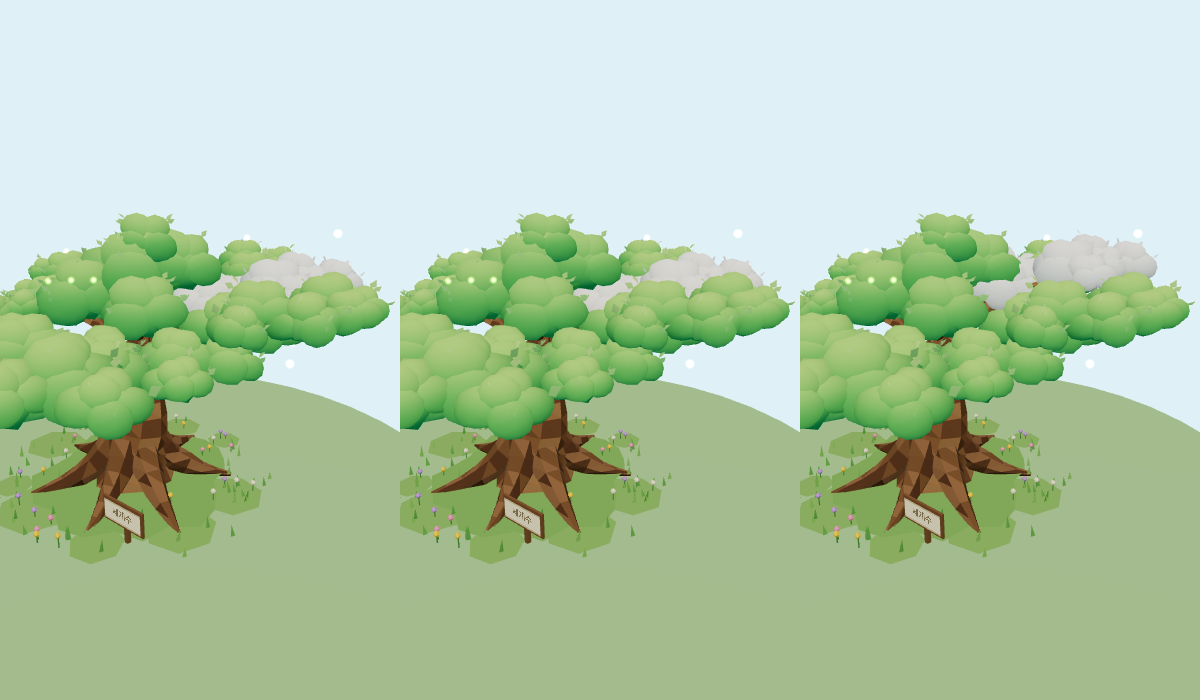
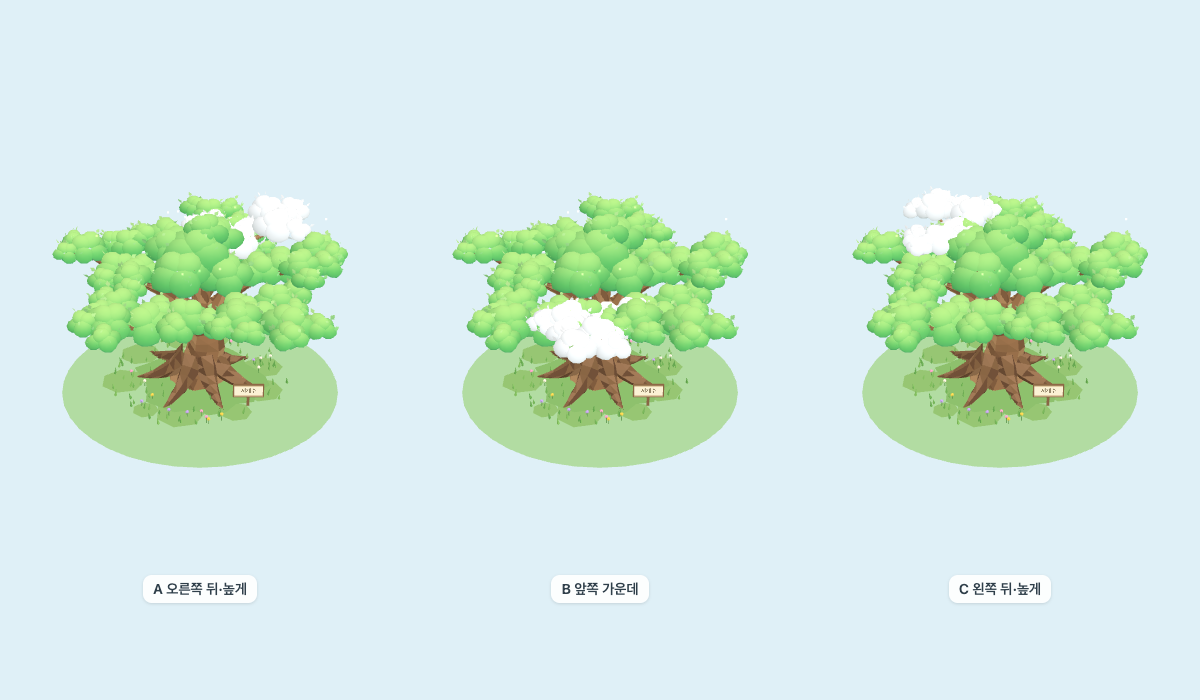
chore(sims): snow limb placement comparison

diff --git a/sims/snow-limb-compare.html b/sims/snow-limb-compare.html
@@ -4,12 +4,13 @@
 <title>snow limb compare</title>
 <style>
   html,body{margin:0;height:100%;background:#dff0f7;font-family:-apple-system,BlinkMacSystemFont,"Apple SD Gothic Neo",sans-serif;color:#2f3f4a;overflow:hidden}
+  html{overflow:hidden}
   canvas{display:block;position:absolute;left:0;top:0}
-  #labels{position:absolute;inset:0;display:flex;pointer-events:none}
-  #labels div{flex:1;display:flex;justify-content:center;align-items:flex-start;padding-top:10px}
+  #labels{position:absolute;inset:0;z-index:2;display:flex;pointer-events:none}
+  #labels div{flex:1;display:flex;justify-content:center;align-items:flex-end;padding-bottom:10px}
   #labels span{background:rgba(255,255,255,.9);border-radius:9px;padding:5px 10px;font-size:14px;font-weight:600;box-shadow:0 1px 3px rgba(0,0,0,.12)}
   body.stack #labels{flex-direction:column}
-  body.stack #labels div{padding-top:6px}
+  body.stack #labels div{padding-bottom:6px}
 </style>
 <div id="labels"></div>
 <script type="importmap">
@@ -18,49 +19,57 @@
 <script type="module">
 import * as THREE from 'three';
 import { buildTreeArt, LIMBS } from '/js/world/tree-art.js';
+import { shotFrame } from '/js/world/tree-shot.js';
 
-const FROST = { under: 0xc9d6e2, mid: 0xe8f1f8, top: 0xffffff };
-const PURE = { under: 0xe4e8ec, mid: 0xf6f8fa, top: 0xffffff };
+const FROST = { under: 0xdde6ee, mid: 0xf2f6fa, top: 0xffffff };
 const VARIANTS = [
-  { name: 'A 서리 흰색', snow: { dir: [0.588, -0.809], h: 5.6, len: 4.6, leaf: FROST, seed: 61 } },
-  { name: 'B 순백', snow: { dir: [0.588, -0.809], h: 5.6, len: 4.6, leaf: PURE, seed: 61 } },
-  { name: 'C 높은 자리', snow: { dir: [0.588, -0.809], h: 6.4, len: 4.2, leaf: FROST, seed: 61 } },
+  { name: 'A 오른쪽 뒤·높게', snow: { dir: [0.588, -0.809], h: 6.6, len: 5.2, leaf: FROST, seed: 61 } },
+  { name: 'B 앞쪽 가운데', snow: { dir: [0, 1], h: 4.2, len: 5.0, leaf: FROST, seed: 61 } },
+  { name: 'C 왼쪽 뒤·높게', snow: { dir: [-0.588, -0.809], h: 6.6, len: 5.2, leaf: FROST, seed: 61 } },
 ];
 
 const params = new URLSearchParams(location.search);
 const stack = params.get('stack') === '1';
+const VW = +params.get('w') || innerWidth, VH = +params.get('h') || innerHeight;
+document.documentElement.style.width = VW + 'px';
+document.documentElement.style.height = VH + 'px';
+Object.assign(document.getElementById('labels').style, { width: VW + 'px', height: VH + 'px', right: 'auto', bottom: 'auto' });
+const FOV = stack ? 32 : 42;
 document.body.classList.toggle('stack', stack);
 document.getElementById('labels').innerHTML = VARIANTS.map(v => `<div><span>${v.name}</span></div>`).join('');
 
 const renderer = new THREE.WebGLRenderer({ antialias: true, preserveDrawingBuffer: true });
 renderer.setPixelRatio(1);
-renderer.setSize(innerWidth, innerHeight);
+renderer.setSize(VW, VH);
 renderer.setScissorTest(true);
-renderer.toneMapping = THREE.ACESFilmicToneMapping;
-renderer.toneMappingExposure = 1.05;
+renderer.toneMapping = THREE.NoToneMapping;
+renderer.toneMappingExposure = 1.0;
 document.body.appendChild(renderer.domElement);
 
 const full = Object.fromEntries(Object.keys(LIMBS).map(id => [id, { leaves: 1, bloom: 0 }]));
 
+const box = new THREE.Box3();
 const scenes = VARIANTS.map(v => {
   const scene = new THREE.Scene();
   scene.background = new THREE.Color(0xdff0f7);
-  scene.add(new THREE.HemisphereLight(0xffffff, 0x9ab59a, 0.95), new THREE.AmbientLight(0xffffff, 0.25));
-  const sun = new THREE.DirectionalLight(0xfff2d8, 1.1);
-  sun.position.set(8, 16, 10);
+  scene.add(new THREE.HemisphereLight(0xffffff, 0xe0ecdc, 1.5), new THREE.AmbientLight(0xffffff, 0.9));
+  const sun = new THREE.DirectionalLight(0xffffff, 1.4);
+  sun.position.set(6, 18, 14);
   scene.add(sun);
-  const ground = new THREE.Mesh(new THREE.CircleGeometry(16, 40).rotateX(-Math.PI / 2), new THREE.MeshStandardMaterial({ color: 0xa9d29a, roughness: 1 }));
+  const ground = new THREE.Mesh(new THREE.CircleGeometry(10, 40).rotateX(-Math.PI / 2), new THREE.MeshStandardMaterial({ color: 0xa9d29a, roughness: 1 }));
   ground.position.y = -0.4;
   scene.add(ground);
   const art = buildTreeArt(THREE, { limbs: { ...LIMBS, snow: v.snow } });
   art.setState({ life: 1, branches: full }, 1);
   scene.add(art.group);
+  art.group.updateMatrixWorld(true);
+  box.union(art.fullBox()).expandByPoint(new THREE.Vector3(art.plaque.x, -0.4, art.plaque.z + 0.6));
   return scene;
 });
 
 const camera = new THREE.PerspectiveCamera(42, 1, 0.1, 200);
 function draw() {
-  const W = innerWidth, H = innerHeight, n = VARIANTS.length;
+  const W = VW, H = VH, n = VARIANTS.length;
   renderer.setSize(W, H);
   scenes.forEach((scene, i) => {
     const x = stack ? 0 : Math.round(i * W / n), y = stack ? Math.round((n - 1 - i) * H / n) : 0;
@@ -68,10 +77,11 @@ function draw() {
     renderer.setViewport(x, y, w, h);
     renderer.setScissor(x, y, w, h);
     camera.aspect = w / h;
-    const D = 27, halfW = 11.5, halfH = 7.5;
-    camera.fov = 2 * Math.atan(Math.max(halfH, halfW / camera.aspect) / D) * 180 / Math.PI;
-    camera.position.set(15, 12.5, 14);
-    camera.lookAt(2.4, 6.3, -2);
+    const c = box.getCenter(new THREE.Vector3()), hb = box.getSize(new THREE.Vector3()).multiplyScalar(0.5);
+    const f = shotFrame({ cx: c.x, cy: c.y, cz: c.z, hx: hb.x, hy: hb.y, hz: hb.z }, camera.aspect, { margin: 1.08, fov: FOV });
+    camera.fov = FOV;
+    camera.position.set(f.pos.x, f.pos.y, f.pos.z);
+    camera.lookAt(f.look.x, f.look.y, f.look.z);
     camera.updateProjectionMatrix();
     renderer.render(scene, camera);
   });
